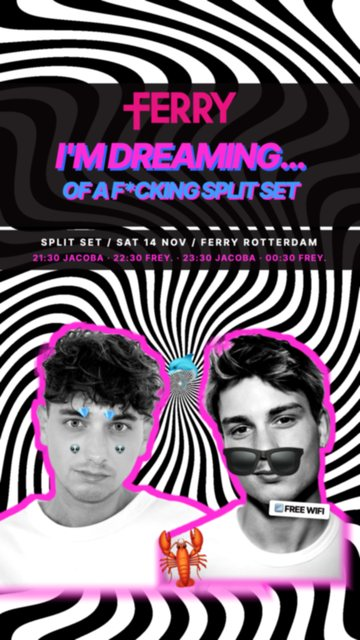
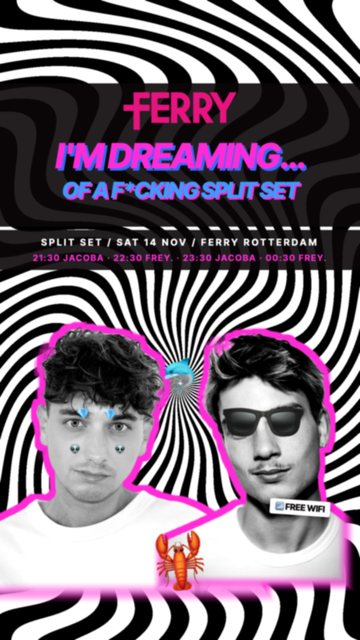
FREYcraft: direction buttons to move items, sunglasses back on Jacoba's eyes

diff --git a/FREYcraft/index.html b/FREYcraft/index.html
@@ -57,6 +57,9 @@ main{flex:1;display:flex;align-items:center;justify-content:center;position:rela
 .t-bubble.tail-tl::after,.t-bubble.tail-tr::after{bottom:auto;top:-34px;border-top:0;border-bottom:30px solid #0b0709}
 .t-bubble.tail-tr::after{left:auto;right:56px}
 .t-bubble.tail-none::after{display:none}
+.dpad{display:grid;grid-template-columns:repeat(3,52px);gap:6px;justify-content:center;margin:4px 0 12px}
+.dpad button{text-align:center;font-size:20px;padding:8px 0}
+.dpad #mvStep{font-size:12.5px;font-weight:700}
 #bh{position:absolute;z-index:10000;width:26px;height:26px;background:#fff;border:4px solid #19d3ff;cursor:nwse-resize;display:none;touch-action:none}
 #rh{position:absolute;z-index:10000;border-radius:50%;background:#19d3ff;border:3px solid #fff;box-shadow:0 2px 8px rgba(0,0,0,.4);cursor:grab;display:none;touch-action:none}
 #rh::after{content:'';position:absolute;left:50%;top:100%;width:2px;height:var(--stem,40px);background:#19d3ff;transform:translateX(-50%)}
@@ -134,6 +137,11 @@ main{flex:1;display:flex;align-items:center;justify-content:center;position:rela
       <label class="row">Width <input type="range" id="bw" min="4" max="1080"><span class="val" id="bwV"></span></label>
       <label class="row">Height <input type="range" id="bhgt" min="4" max="1920"><span class="val" id="bhV"></span></label>
       <p class="hint">Or drag the white square at the block's corner.</p>
+    </div>
+    <div class="dpad" aria-label="Move selected item">
+      <span></span><button id="mvU" aria-label="Move up">↑</button><span></span>
+      <button id="mvL" aria-label="Move left">←</button><button id="mvStep" title="Step size">10px</button><button id="mvR" aria-label="Move right">→</button>
+      <span></span><button id="mvD" aria-label="Move down">↓</button><span></span>
     </div>
     <label class="row">Size <input type="range" id="size" min="10" max="300"><span class="val" id="sizeV"></span></label>
     <label class="row">Tilt <input type="range" id="rot" min="-180" max="180"><span class="val" id="rotV"></span></label>
@@ -397,7 +405,7 @@ const TEMPLATES=[
     T({name:'Headline 2',cls:'t-head',html:'of a f*cking split set',x:540,y:540,anchor:'center',color:'#3d9bff',st:'font-style:italic;font-size:66px;text-shadow:5px 5px 0 #ff2bd6'}),
     photo('frey',290,1270,340),photo('jacoba',790,1270,340),
     emoji('💎',250,1222,.32,-8),emoji('💎',330,1225,.32,8),emoji('👽',225,1330,.3),emoji('👽',360,1330,.3),
-    emoji('🕶',790,1268,2.05),
+    emoji('🕶',790,1150,2.05),
     emoji('🐬',540,1080,.9,-12),emoji('🦞',540,1600,1.5,-6),
     label('📶 FREE WIFI',900,1500,'#fff',INK,4,26),
     {id:'strip',name:'Info strip',type:'box',x:0,y:690,w:1080,h:120,color:INK,st:'opacity:.9'},
@@ -597,7 +605,7 @@ const size=document.getElementById('size'), rot=document.getElementById('rot');
 function updatePanel(){
   const e=sel&&byId(sel);
   document.getElementById('selName').textContent=e?e.name:'nothing';
-  ['size','rot','up','down','dup','del','center'].forEach(id=>document.getElementById(id).disabled=!e);
+  ['size','rot','up','down','dup','del','center','mvU','mvD','mvL','mvR'].forEach(id=>document.getElementById(id).disabled=!e);
   document.getElementById('swap').disabled=!(e&&e.type==='img');
   document.getElementById('flip').disabled=!(e&&(e.type==='photo'||e.type==='img'));
   size.value=e?Math.round((e.s||1)*100):100; rot.value=e?(e.r||0):0;
@@ -614,6 +622,14 @@ document.getElementById('down').onclick=()=>{const i=S.els.findIndex(e=>e.id===s
 document.getElementById('dup').onclick=()=>{const e=byId(sel); const c=JSON.parse(JSON.stringify(e)); c.id=e.id+'-'+Date.now(); c.name=e.name+' copy'; c.x+=30; c.y+=30; S.els.push(c); sel=c.id; save(); render();};
 const TAILS=[['bl','↙','Tail bottom left'],['br','↘','Tail bottom right'],['tl','↖','Tail top left'],['tr','↗','Tail top right'],['none','∅','No tail']];
 TAILS.forEach(([k,ch,n])=>{const b=document.createElement('button'); b.textContent=ch; b.title=n; b.setAttribute('aria-label',n); b.style.cssText='padding:4px 10px;font-size:18px'; b.onclick=()=>{const e=byId(sel); if(!e) return; e.tail=k==='bl'?undefined:k; save(); render();}; document.getElementById('tails').appendChild(b);});
+let step=10; const stepBtn=document.getElementById('mvStep');
+stepBtn.onclick=()=>{ step=step===10?1:(step===1?50:10); stepBtn.textContent=step+'px'; };
+function nudge(dx,dy){ const e=sel&&byId(sel); if(!e) return; e.x+=dx*step; e.y+=dy*step; place(layer.querySelector(`[data-id="${sel}"]`),e); save(); }
+[['mvU',0,-1],['mvD',0,1],['mvL',-1,0],['mvR',1,0]].forEach(([id,dx,dy])=>{ const b=document.getElementById(id); let t=null, iv=null;
+  const stop=()=>{ clearTimeout(t); clearInterval(iv); };
+  b.addEventListener('pointerdown',ev=>{ ev.preventDefault(); nudge(dx,dy); t=setTimeout(()=>{ iv=setInterval(()=>nudge(dx,dy),60); },350); });
+  ['pointerup','pointerleave','pointercancel'].forEach(n=>b.addEventListener(n,stop));
+  b.addEventListener('keydown',ev=>{ if(ev.key==='Enter'||ev.key===' '){ ev.preventDefault(); nudge(dx,dy); } }); });
 function removeSel(){ S.els=S.els.filter(e=>e.id!==sel); sel=null; save(); render(); }
 document.getElementById('del').onclick=removeSel;
 document.getElementById('center').onclick=()=>{const e=byId(sel), d=layer.querySelector(`[data-id="${sel}"]`); const w=d.offsetWidth*(e.type==='photo'?1:(e.s||1)); e.x=e.anchor==='center'?540:(e.anchor==='right'?Math.round(540+w/2):Math.round(540-w/2)); place(d,e); save();};
